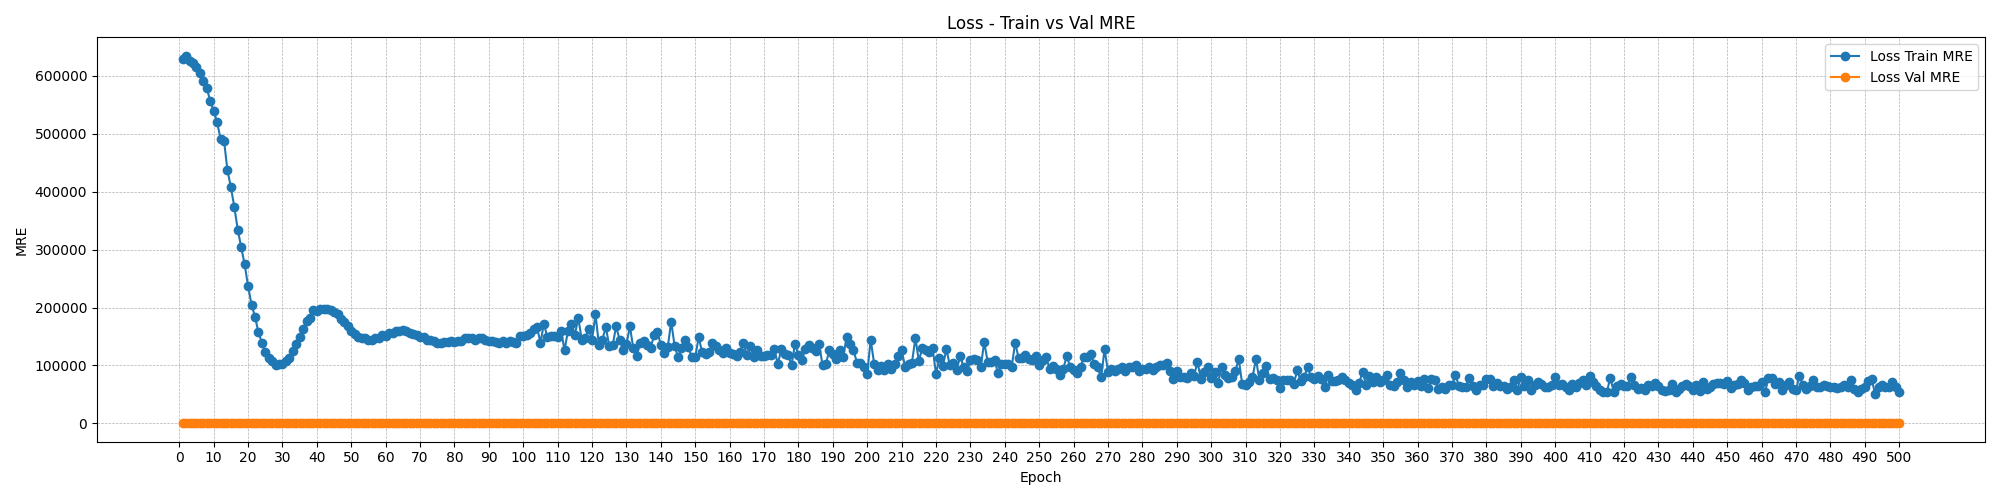
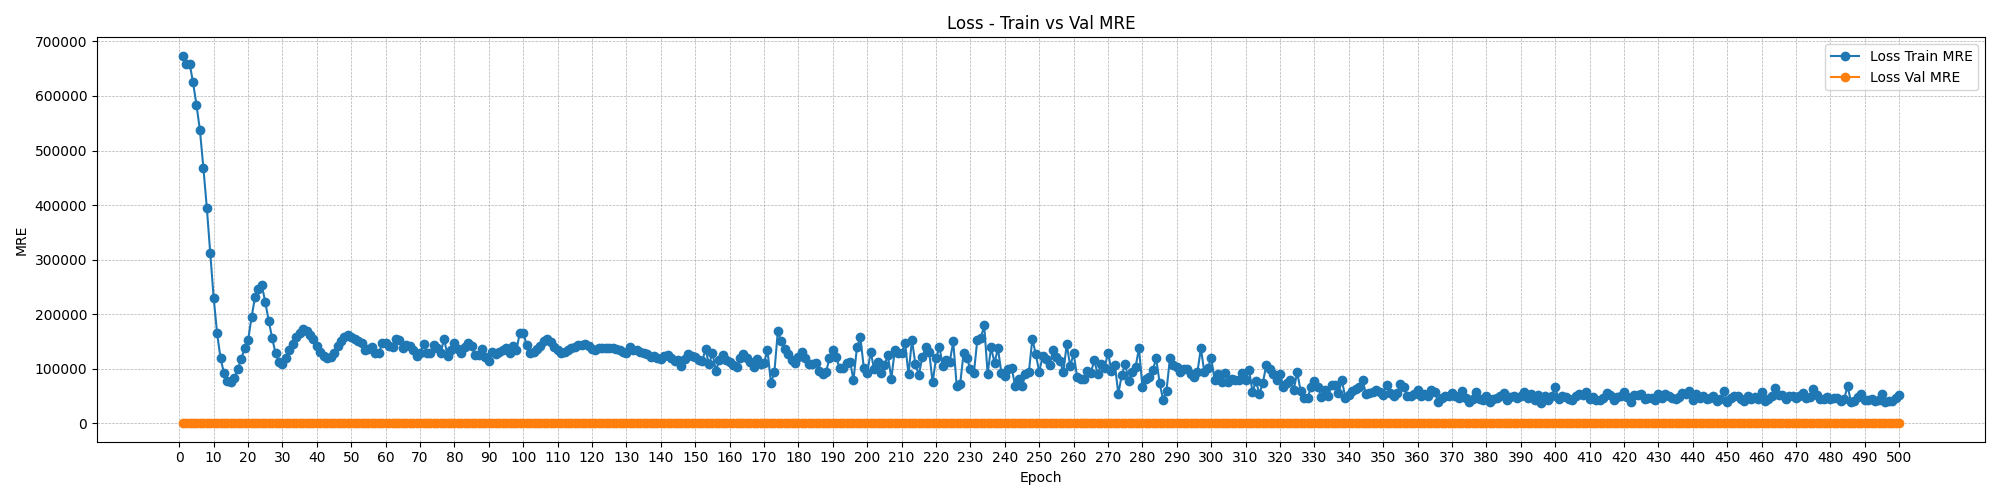
new overfitting test

diff --git a/co-phyloformer_asym/train.py b/co-phyloformer_asym/train.py
@@ -280,7 +280,7 @@ def main(fabric: Fabric):
     device = fabric.device
     epochs = 500
 
-    batch_size = 32
+    batch_size = 8
     overfit_mode = os.environ.get("OVERFIT_MODE", "0").strip() == "1"
     train_num_workers = int(os.environ.get("TRAIN_NUM_WORKERS", "0" if overfit_mode else "8"))
     val_num_workers = int(os.environ.get("VAL_NUM_WORKERS", str(train_num_workers)))
